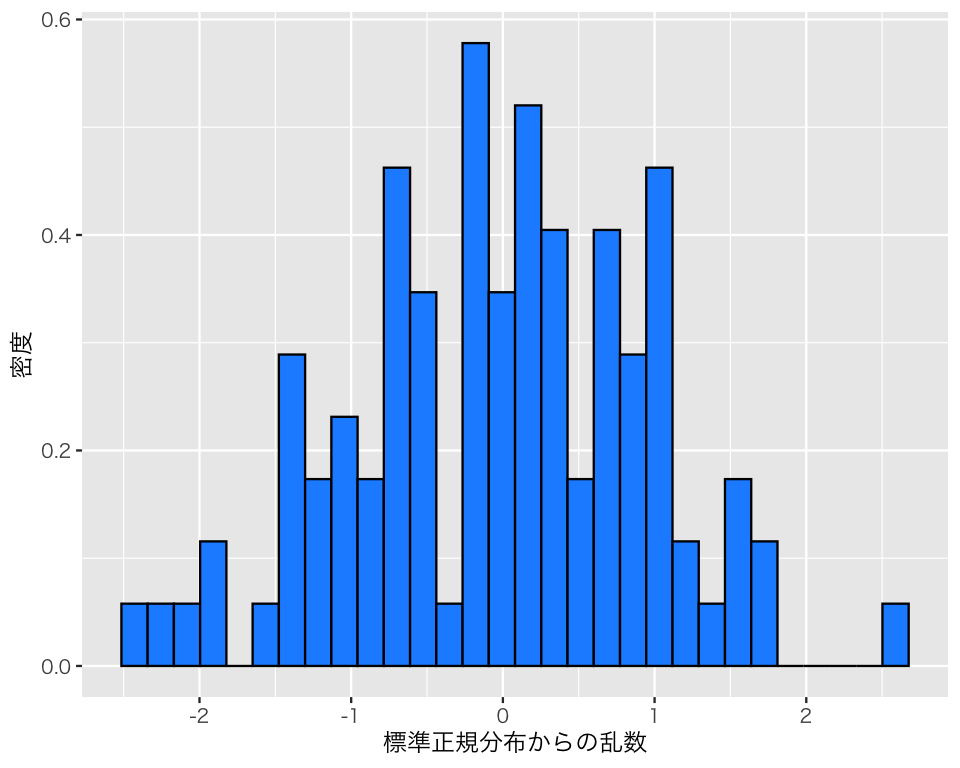
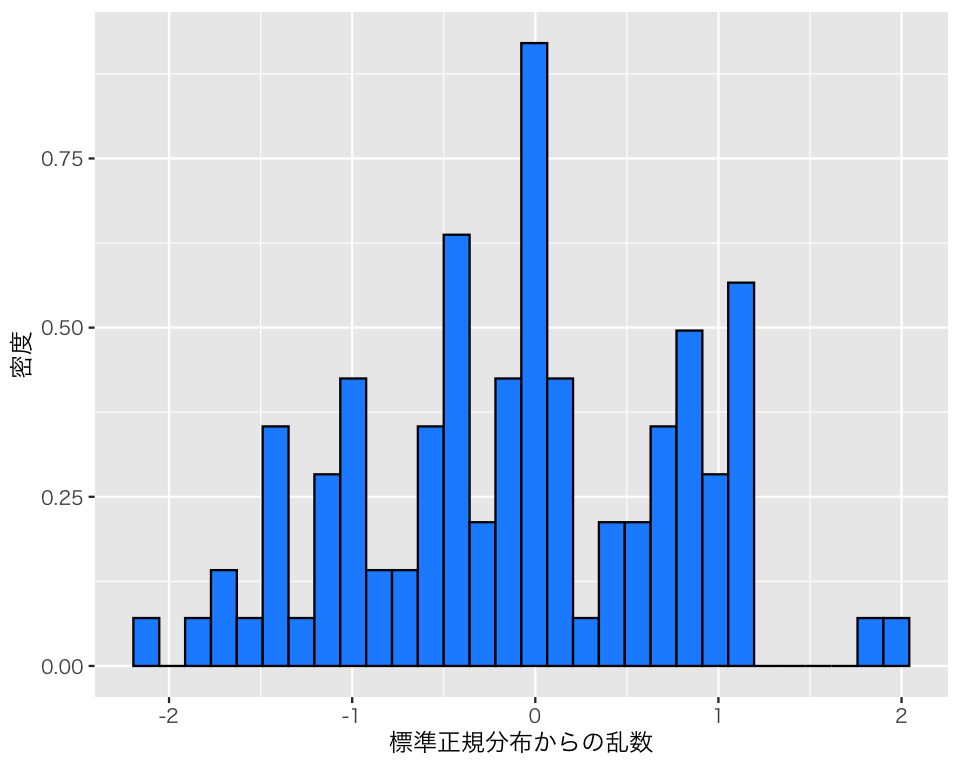
typo

diff --git a/docs/stat-dist.html b/docs/stat-dist.html
@@ -333,7 +333,7 @@ X \sim \mbox{Bernoulli}(\theta)
 <div class="cell">
 <div class="sourceCode" id="cb7"><pre class="downlit sourceCode r code-with-copy"><code class="sourceCode R"><span><span class="fu"><a href="https://rdrr.io/r/base/mean.html">mean</a></span><span class="op">(</span><span class="va">x_1</span><span class="op">)</span></span></code><button title="コピーする" class="code-copy-button"><i class="bi"></i></button></pre></div>
 <div class="cell-output cell-output-stdout">
-<pre><code>[1] 0.689</code></pre>
+<pre><code>[1] 0.713</code></pre>
 </div>
 </div>
 <p>期待値である0.7に一致はしていないものの、ある程度近い値をとっている。</p>
@@ -341,7 +341,7 @@ X \sim \mbox{Bernoulli}(\theta)
 <div class="cell">
 <div class="sourceCode" id="cb9"><pre class="downlit sourceCode r code-with-copy"><code class="sourceCode R"><span><span class="fu"><a href="https://rdrr.io/r/stats/cor.html">var</a></span><span class="op">(</span><span class="va">x_1</span><span class="op">)</span></span></code><button title="コピーする" class="code-copy-button"><i class="bi"></i></button></pre></div>
 <div class="cell-output cell-output-stdout">
-<pre><code>[1] 0.2144935</code></pre>
+<pre><code>[1] 0.2048358</code></pre>
 </div>
 </div>
 <p>それなりに近い値が得られていることがわかる。</p>
@@ -377,7 +377,7 @@ X \sim \mbox{Binomial}(n, \theta)
 <div class="cell">
 <div class="sourceCode" id="cb13"><pre class="downlit sourceCode r code-with-copy"><code class="sourceCode R"><span><span class="fu"><a href="https://rdrr.io/r/base/mean.html">mean</a></span><span class="op">(</span><span class="va">x_2</span><span class="op">)</span></span></code><button title="コピーする" class="code-copy-button"><i class="bi"></i></button></pre></div>
 <div class="cell-output cell-output-stdout">
-<pre><code>[1] 3.438</code></pre>
+<pre><code>[1] 3.463</code></pre>
 </div>
 </div>
 <p>期待値である<span class="math inline">\(n\theta = 5\cdot 0.7=0.35\)</span>に一致はしていないものの、ある程度近い値をとっている。</p>
@@ -385,7 +385,7 @@ X \sim \mbox{Binomial}(n, \theta)
 <div class="cell">
 <div class="sourceCode" id="cb15"><pre class="downlit sourceCode r code-with-copy"><code class="sourceCode R"><span><span class="fu"><a href="https://rdrr.io/r/stats/cor.html">var</a></span><span class="op">(</span><span class="va">x_2</span><span class="op">)</span></span></code><button title="コピーする" class="code-copy-button"><i class="bi"></i></button></pre></div>
 <div class="cell-output cell-output-stdout">
-<pre><code>[1] 1.081237</code></pre>
+<pre><code>[1] 1.117749</code></pre>
 </div>
 </div>
 <p>それなりに近い値が得られているが、ややズレいている。</p>
@@ -442,7 +442,7 @@ X \sim \mbox{Normal}(\mu, \sigma)
 <div class="cell">
 <div class="sourceCode" id="cb22"><pre class="downlit sourceCode r code-with-copy"><code class="sourceCode R"><span><span class="fu"><a href="https://rdrr.io/r/base/mean.html">mean</a></span><span class="op">(</span><span class="va">x_3</span><span class="op">)</span></span></code><button title="コピーする" class="code-copy-button"><i class="bi"></i></button></pre></div>
 <div class="cell-output cell-output-stdout">
-<pre><code>[1] 4.883656</code></pre>
+<pre><code>[1] 4.967769</code></pre>
 </div>
 </div>
 <p>期待値である5に一致はしないが、近い値をとっている。</p>
@@ -450,7 +450,7 @@ X \sim \mbox{Normal}(\mu, \sigma)
 <div class="cell">
 <div class="sourceCode" id="cb24"><pre class="downlit sourceCode r code-with-copy"><code class="sourceCode R"><span><span class="fu"><a href="https://rdrr.io/r/stats/sd.html">sd</a></span><span class="op">(</span><span class="va">x_3</span><span class="op">)</span></span></code><button title="コピーする" class="code-copy-button"><i class="bi"></i></button></pre></div>
 <div class="cell-output cell-output-stdout">
-<pre><code>[1] 2.968933</code></pre>
+<pre><code>[1] 2.97717</code></pre>
 </div>
 </div>
 <p>分布の標準偏差である3にほぼ一致する値が得られた。</p>
@@ -458,10 +458,10 @@ X \sim \mbox{Normal}(\mu, \sigma)
 <div class="cell">
 <div class="sourceCode" id="cb26"><pre class="downlit sourceCode r code-with-copy"><code class="sourceCode R"><span><span class="fu"><a href="https://rdrr.io/r/base/sum.html">sum</a></span><span class="op">(</span><span class="va">x_3</span> <span class="op">&gt;</span> <span class="fl">5</span> <span class="op">-</span> <span class="fl">3</span> <span class="op">&amp;</span> <span class="va">x_3</span> <span class="op">&lt;</span> <span class="fl">5</span> <span class="op">+</span> <span class="fl">3</span><span class="op">)</span></span></code><button title="コピーする" class="code-copy-button"><i class="bi"></i></button></pre></div>
 <div class="cell-output cell-output-stdout">
-<pre><code>[1] 672</code></pre>
+<pre><code>[1] 690</code></pre>
 </div>
 </div>
-<p>である。1000個中672個の値が「平均 ± 1標準偏差」の範囲にある、つまり、データの約67.2 %が「平均 ± 1標準偏差」に収まっている。理論的には、この範囲に収まる確率は</p>
+<p>である。1000個中690個の値が「平均 ± 1標準偏差」の範囲にある、つまり、データの約69 %が「平均 ± 1標準偏差」に収まっている。理論的には、この範囲に収まる確率は</p>
 <div class="cell">
 <div class="sourceCode" id="cb28"><pre class="downlit sourceCode r code-with-copy"><code class="sourceCode R"><span><span class="fu"><a href="https://rdrr.io/r/stats/Normal.html">pnorm</a></span><span class="op">(</span><span class="fl">5</span> <span class="op">+</span> <span class="fl">3</span>, mean <span class="op">=</span> <span class="fl">5</span>, sd <span class="op">=</span> <span class="fl">3</span><span class="op">)</span> <span class="op">-</span> <span class="fu"><a href="https://rdrr.io/r/stats/Normal.html">pnorm</a></span><span class="op">(</span><span class="fl">5</span> <span class="op">-</span> <span class="fl">3</span>, mean <span class="op">=</span> <span class="fl">5</span>, sd <span class="op">=</span> <span class="fl">3</span><span class="op">)</span></span></code><button title="コピーする" class="code-copy-button"><i class="bi"></i></button></pre></div>
 <div class="cell-output cell-output-stdout">
@@ -473,10 +473,10 @@ X \sim \mbox{Normal}(\mu, \sigma)
 <div class="cell">
 <div class="sourceCode" id="cb30"><pre class="downlit sourceCode r code-with-copy"><code class="sourceCode R"><span><span class="fu"><a href="https://rdrr.io/r/base/sum.html">sum</a></span><span class="op">(</span><span class="va">x_3</span> <span class="op">&gt;</span> <span class="fl">5</span> <span class="op">-</span> <span class="fl">2</span> <span class="op">*</span> <span class="fl">3</span> <span class="op">&amp;</span> <span class="va">x_3</span> <span class="op">&lt;</span> <span class="fl">5</span> <span class="op">+</span> <span class="fl">2</span> <span class="op">*</span> <span class="fl">3</span><span class="op">)</span></span></code><button title="コピーする" class="code-copy-button"><i class="bi"></i></button></pre></div>
 <div class="cell-output cell-output-stdout">
-<pre><code>[1] 960</code></pre>
+<pre><code>[1] 957</code></pre>
 </div>
 </div>
-<p>である。1000個中960個の値が「平均 ± 2標準偏差」の範囲にある、つまり、データの約96 %が「平均 ± 2標準偏差」に収まっている。理論的には、この範囲に収まる確率は</p>
+<p>である。1000個中957個の値が「平均 ± 2標準偏差」の範囲にある、つまり、データの約95.7 %が「平均 ± 2標準偏差」に収まっている。理論的には、この範囲に収まる確率は</p>
 <div class="cell">
 <div class="sourceCode" id="cb32"><pre class="downlit sourceCode r code-with-copy"><code class="sourceCode R"><span><span class="fu"><a href="https://rdrr.io/r/stats/Normal.html">pnorm</a></span><span class="op">(</span><span class="fl">5</span> <span class="op">+</span> <span class="fl">2</span> <span class="op">*</span> <span class="fl">3</span>, mean <span class="op">=</span> <span class="fl">5</span>, sd <span class="op">=</span> <span class="fl">3</span><span class="op">)</span> <span class="op">-</span> <span class="fu"><a href="https://rdrr.io/r/stats/Normal.html">pnorm</a></span><span class="op">(</span><span class="fl">5</span> <span class="op">-</span> <span class="fl">2</span> <span class="op">*</span> <span class="fl">3</span>, mean <span class="op">=</span> <span class="fl">5</span>, sd <span class="op">=</span> <span class="fl">3</span><span class="op">)</span></span></code><button title="コピーする" class="code-copy-button"><i class="bi"></i></button></pre></div>
 <div class="cell-output cell-output-stdout">
@@ -534,7 +534,7 @@ X \sim \mbox{Normal}(0, 1)
 <div class="cell">
 <div class="sourceCode" id="cb39"><pre class="downlit sourceCode r code-with-copy"><code class="sourceCode R"><span><span class="fu"><a href="https://rdrr.io/r/base/mean.html">mean</a></span><span class="op">(</span><span class="va">x_4</span><span class="op">)</span></span></code><button title="コピーする" class="code-copy-button"><i class="bi"></i></button></pre></div>
 <div class="cell-output cell-output-stdout">
-<pre><code>[1] -0.05260267</code></pre>
+<pre><code>[1] 0.04080306</code></pre>
 </div>
 </div>
 <p>期待値である0に一致はしないが、近い値をとっている。</p>
@@ -542,7 +542,7 @@ X \sim \mbox{Normal}(0, 1)
 <div class="cell">
 <div class="sourceCode" id="cb41"><pre class="downlit sourceCode r code-with-copy"><code class="sourceCode R"><span><span class="fu"><a href="https://rdrr.io/r/stats/sd.html">sd</a></span><span class="op">(</span><span class="va">x_4</span><span class="op">)</span></span></code><button title="コピーする" class="code-copy-button"><i class="bi"></i></button></pre></div>
 <div class="cell-output cell-output-stdout">
-<pre><code>[1] 1.007018</code></pre>
+<pre><code>[1] 0.9621642</code></pre>
 </div>
 </div>
 <p>分布の標準偏差である1にほぼ一致する値が得られた。</p>
@@ -550,10 +550,10 @@ X \sim \mbox{Normal}(0, 1)
 <div class="cell">
 <div class="sourceCode" id="cb43"><pre class="downlit sourceCode r code-with-copy"><code class="sourceCode R"><span><span class="fu"><a href="https://rdrr.io/r/base/sum.html">sum</a></span><span class="op">(</span><span class="va">x_4</span> <span class="op">&gt;</span> <span class="op">-</span><span class="fl">1</span> <span class="op">&amp;</span> <span class="va">x_4</span> <span class="op">&lt;</span> <span class="fl">1</span><span class="op">)</span></span></code><button title="コピーする" class="code-copy-button"><i class="bi"></i></button></pre></div>
 <div class="cell-output cell-output-stdout">
-<pre><code>[1] 674</code></pre>
+<pre><code>[1] 693</code></pre>
 </div>
 </div>
-<p>である。1000個中674個の値が<span class="math inline">\(-1 &lt; X &lt; 1\)</span>の範囲にある、つまり、データの約67.4 %が<span class="math inline">\(-1 &lt; X &lt; 1\)</span>に収まっている。理論的には、この範囲に収まる確率は</p>
+<p>である。1000個中693個の値が<span class="math inline">\(-1 &lt; X &lt; 1\)</span>の範囲にある、つまり、データの約69.3 %が<span class="math inline">\(-1 &lt; X &lt; 1\)</span>に収まっている。理論的には、この範囲に収まる確率は</p>
 <div class="cell">
 <div class="sourceCode" id="cb45"><pre class="downlit sourceCode r code-with-copy"><code class="sourceCode R"><span><span class="fu"><a href="https://rdrr.io/r/stats/Normal.html">pnorm</a></span><span class="op">(</span><span class="fl">1</span><span class="op">)</span> <span class="op">-</span> <span class="fu"><a href="https://rdrr.io/r/stats/Normal.html">pnorm</a></span><span class="op">(</span><span class="op">-</span><span class="fl">1</span><span class="op">)</span></span></code><button title="コピーする" class="code-copy-button"><i class="bi"></i></button></pre></div>
 <div class="cell-output cell-output-stdout">
@@ -565,10 +565,10 @@ X \sim \mbox{Normal}(0, 1)
 <div class="cell">
 <div class="sourceCode" id="cb47"><pre class="downlit sourceCode r code-with-copy"><code class="sourceCode R"><span><span class="fu"><a href="https://rdrr.io/r/base/sum.html">sum</a></span><span class="op">(</span><span class="va">x_4</span> <span class="op">&gt;</span> <span class="op">-</span><span class="fl">2</span> <span class="op">&amp;</span> <span class="va">x_4</span> <span class="op">&lt;</span> <span class="fl">2</span><span class="op">)</span></span></code><button title="コピーする" class="code-copy-button"><i class="bi"></i></button></pre></div>
 <div class="cell-output cell-output-stdout">
-<pre><code>[1] 957</code></pre>
+<pre><code>[1] 967</code></pre>
 </div>
 </div>
-<p>である。1000個中957個の値が<span class="math inline">\(-2 &lt; X &lt; 2\)</span>の範囲にある、つまり、データの約95.7 %が<span class="math inline">\(-2 &lt; X &lt; 2\)</span>に収まっている。理論的には、この範囲に収まる確率は</p>
+<p>である。1000個中967個の値が<span class="math inline">\(-2 &lt; X &lt; 2\)</span>の範囲にある、つまり、データの約96.7 %が<span class="math inline">\(-2 &lt; X &lt; 2\)</span>に収まっている。理論的には、この範囲に収まる確率は</p>
 <div class="cell">
 <div class="sourceCode" id="cb49"><pre class="downlit sourceCode r code-with-copy"><code class="sourceCode R"><span><span class="fu"><a href="https://rdrr.io/r/stats/Normal.html">pnorm</a></span><span class="op">(</span><span class="fl">2</span><span class="op">)</span> <span class="op">-</span> <span class="fu"><a href="https://rdrr.io/r/stats/Normal.html">pnorm</a></span><span class="op">(</span><span class="op">-</span><span class="fl">2</span><span class="op">)</span></span></code><button title="コピーする" class="code-copy-button"><i class="bi"></i></button></pre></div>
 <div class="cell-output cell-output-stdout">

diff --git a/docs/rv-n-dist.html b/docs/rv-n-dist.html
@@ -500,7 +500,7 @@ X \sim \mbox{Binomial}(N, \theta)
 <div class="cell">
 <div class="sourceCode" id="cb21"><pre class="downlit sourceCode r code-with-copy"><code class="sourceCode R"><span><span class="fu"><a href="https://rdrr.io/r/stats/Binomial.html">rbinom</a></span><span class="op">(</span>n <span class="op">=</span> <span class="fl">8</span>, size <span class="op">=</span> <span class="fl">10</span>, prob <span class="op">=</span> <span class="fl">0.4</span><span class="op">)</span></span></code><button title="コピーする" class="code-copy-button"><i class="bi"></i></button></pre></div>
 <div class="cell-output cell-output-stdout">
-<pre><code>[1] 3 2 4 5 5 3 5 5</code></pre>
+<pre><code>[1] 6 5 4 2 5 4 3 4</code></pre>
 </div>
 </div>
 <p>結果として、8つの数字が表示されるが、それぞれの数字が、1回ごとの実験（コインを10回投げる）で表が何回出たかを表している。</p>
@@ -521,7 +521,7 @@ Warning
 <div class="cell">
 <div class="sourceCode" id="cb23"><pre class="downlit sourceCode r code-with-copy"><code class="sourceCode R"><span><span class="fu"><a href="https://rdrr.io/r/stats/Binomial.html">rbinom</a></span><span class="op">(</span>n <span class="op">=</span> <span class="fl">8</span>, size <span class="op">=</span> <span class="fl">10</span>, prob <span class="op">=</span> <span class="fl">0.4</span><span class="op">)</span></span></code><button title="コピーする" class="code-copy-button"><i class="bi"></i></button></pre></div>
 <div class="cell-output cell-output-stdout">
-<pre><code>[1] 4 3 4 3 3 2 2 5</code></pre>
+<pre><code>[1] 5 2 4 1 0 2 4 4</code></pre>
 </div>
 </div>
 <p>表が出る確率が0.5のコインを使って、1回のコイン投げ実験を1回だけ実行するには、</p>
@@ -541,19 +541,19 @@ Warning
 <div class="cell">
 <div class="sourceCode" id="cb29"><pre class="downlit sourceCode r code-with-copy"><code class="sourceCode R"><span><span class="fu"><a href="https://rdrr.io/r/stats/Binomial.html">rbinom</a></span><span class="op">(</span>n <span class="op">=</span> <span class="fl">1</span>, size <span class="op">=</span> <span class="fl">1</span>, prob <span class="op">=</span> <span class="fl">0.5</span><span class="op">)</span></span></code><button title="コピーする" class="code-copy-button"><i class="bi"></i></button></pre></div>
 <div class="cell-output cell-output-stdout">
-<pre><code>[1] 0</code></pre>
+<pre><code>[1] 1</code></pre>
 </div>
 </div>
 <div class="cell">
 <div class="sourceCode" id="cb31"><pre class="downlit sourceCode r code-with-copy"><code class="sourceCode R"><span><span class="fu"><a href="https://rdrr.io/r/stats/Binomial.html">rbinom</a></span><span class="op">(</span>n <span class="op">=</span> <span class="fl">1</span>, size <span class="op">=</span> <span class="fl">1</span>, prob <span class="op">=</span> <span class="fl">0.5</span><span class="op">)</span></span></code><button title="コピーする" class="code-copy-button"><i class="bi"></i></button></pre></div>
 <div class="cell-output cell-output-stdout">
-<pre><code>[1] 1</code></pre>
+<pre><code>[1] 0</code></pre>
 </div>
 </div>
 <div class="cell">
 <div class="sourceCode" id="cb33"><pre class="downlit sourceCode r code-with-copy"><code class="sourceCode R"><span><span class="fu"><a href="https://rdrr.io/r/stats/Binomial.html">rbinom</a></span><span class="op">(</span>n <span class="op">=</span> <span class="fl">1</span>, size <span class="op">=</span> <span class="fl">1</span>, prob <span class="op">=</span> <span class="fl">0.5</span><span class="op">)</span></span></code><button title="コピーする" class="code-copy-button"><i class="bi"></i></button></pre></div>
 <div class="cell-output cell-output-stdout">
-<pre><code>[1] 1</code></pre>
+<pre><code>[1] 0</code></pre>
 </div>
 </div>
 <div class="cell">
@@ -566,7 +566,7 @@ Warning
 <div class="cell">
 <div class="sourceCode" id="cb37"><pre class="downlit sourceCode r code-with-copy"><code class="sourceCode R"><span><span class="fu"><a href="https://rdrr.io/r/stats/Binomial.html">rbinom</a></span><span class="op">(</span>n <span class="op">=</span> <span class="fl">10</span>, size <span class="op">=</span> <span class="fl">1</span>, prob <span class="op">=</span> <span class="fl">0.5</span><span class="op">)</span></span></code><button title="コピーする" class="code-copy-button"><i class="bi"></i></button></pre></div>
 <div class="cell-output cell-output-stdout">
-<pre><code> [1] 0 1 0 0 1 0 0 1 1 1</code></pre>
+<pre><code> [1] 0 1 1 1 1 0 0 0 1 1</code></pre>
 </div>
 </div>
 <p>確率変数 <span class="math inline">\(X\)</span> が、<span class="math inline">\(X \sim \mbox{Binomial}(10, 0.3)\)</span> のとき、確率変数<span class="math inline">\(X\)</span>をランダムに1,000個生成してみよう。</p>
@@ -629,21 +629,21 @@ Note
 </div>
 </div>
 </div>
-<p><span class="math inline">\(X\)</span>がある実数<span class="math inline">\(x\)</span>以下の値をとる確率は、分布関数<span class="math inline">\(F_X(x)\)</span>で求めることができるが、Rでは次のようにする。 <span class="math inline">\(Pr(X \leq 3)\)</span>（3以下の確率）：</p>
+<p><span class="math inline">\(X\)</span>がある実数<span class="math inline">\(x\)</span>以下の値をとる確率は、分布関数<span class="math inline">\(F_X(x)\)</span>で求めることができるが、Rでは次のようにする。 <span class="math inline">\(\Pr(X \leq 3)\)</span>（3以下の確率）：</p>
 <div class="cell">
 <div class="sourceCode" id="cb45"><pre class="downlit sourceCode r code-with-copy"><code class="sourceCode R"><span><span class="fu"><a href="https://rdrr.io/r/stats/Binomial.html">pbinom</a></span><span class="op">(</span><span class="fl">3</span>, size <span class="op">=</span> <span class="fl">10</span>, prob <span class="op">=</span> <span class="fl">0.3</span><span class="op">)</span></span></code><button title="コピーする" class="code-copy-button"><i class="bi"></i></button></pre></div>
 <div class="cell-output cell-output-stdout">
 <pre><code>[1] 0.6496107</code></pre>
 </div>
 </div>
-<p><span class="math inline">\(Pr(4 \leq X \leq 6)\)</span>（4以上、6以下の確率）</p>
+<p><span class="math inline">\(\Pr(4 \leq X \leq 6)\)</span>（4以上、6以下の確率）</p>
 <div class="cell">
 <div class="sourceCode" id="cb47"><pre class="downlit sourceCode r code-with-copy"><code class="sourceCode R"><span><span class="fu"><a href="https://rdrr.io/r/stats/Binomial.html">pbinom</a></span><span class="op">(</span><span class="fl">6</span>, size <span class="op">=</span> <span class="fl">10</span>, prob <span class="op">=</span> <span class="fl">0.3</span><span class="op">)</span> <span class="op">-</span> <span class="fu"><a href="https://rdrr.io/r/stats/Binomial.html">pbinom</a></span><span class="op">(</span><span class="fl">3</span>, size <span class="op">=</span> <span class="fl">10</span>, prob <span class="op">=</span> <span class="fl">0.3</span><span class="op">)</span> </span></code><button title="コピーする" class="code-copy-button"><i class="bi"></i></button></pre></div>
 <div class="cell-output cell-output-stdout">
 <pre><code>[1] 0.3397972</code></pre>
 </div>
 </div>
-<p><span class="math inline">\(Pr(4 &lt; X \leq 6)\)</span>（4より大きく、6以下の確率）</p>
+<p><span class="math inline">\(\Pr(4 &lt; X \leq 6)\)</span>（4より大きく、6以下の確率）</p>
 <div class="cell">
 <div class="sourceCode" id="cb49"><pre class="downlit sourceCode r code-with-copy"><code class="sourceCode R"><span><span class="fu"><a href="https://rdrr.io/r/stats/Binomial.html">pbinom</a></span><span class="op">(</span><span class="fl">6</span>, size <span class="op">=</span> <span class="fl">10</span>, prob <span class="op">=</span> <span class="fl">0.3</span><span class="op">)</span> <span class="op">-</span> <span class="fu"><a href="https://rdrr.io/r/stats/Binomial.html">pbinom</a></span><span class="op">(</span><span class="fl">4</span>, size <span class="op">=</span> <span class="fl">10</span>, prob <span class="op">=</span> <span class="fl">0.3</span><span class="op">)</span> </span></code><button title="コピーする" class="code-copy-button"><i class="bi"></i></button></pre></div>
 <div class="cell-output cell-output-stdout">
@@ -702,11 +702,11 @@ X \sim \mbox{Normal}(\mu, \sigma)
 <div class="cell">
 <div class="sourceCode" id="cb57"><pre class="downlit sourceCode r code-with-copy"><code class="sourceCode R"><span><span class="fu"><a href="https://rdrr.io/r/base/mean.html">mean</a></span><span class="op">(</span><span class="va">b1</span><span class="op">)</span></span></code><button title="コピーする" class="code-copy-button"><i class="bi"></i></button></pre></div>
 <div class="cell-output cell-output-stdout">
-<pre><code>[1] -0.02897176</code></pre>
+<pre><code>[1] -0.09187024</code></pre>
 </div>
 <div class="sourceCode" id="cb59"><pre class="downlit sourceCode r code-with-copy"><code class="sourceCode R"><span><span class="fu"><a href="https://rdrr.io/r/stats/sd.html">sd</a></span><span class="op">(</span><span class="va">b1</span><span class="op">)</span></span></code><button title="コピーする" class="code-copy-button"><i class="bi"></i></button></pre></div>
 <div class="cell-output cell-output-stdout">
-<pre><code>[1] 0.9705065</code></pre>
+<pre><code>[1] 0.8674168</code></pre>
 </div>
 </div>
 <p>乱数の元となった確率分布の平均値、標準偏差と比べると、どんなことが言えるだろうか？</p>
@@ -730,11 +730,11 @@ X \sim \mbox{Normal}(\mu, \sigma)
 <div class="cell">
 <div class="sourceCode" id="cb62"><pre class="downlit sourceCode r code-with-copy"><code class="sourceCode R"><span><span class="fu"><a href="https://rdrr.io/r/base/mean.html">mean</a></span><span class="op">(</span><span class="va">b2</span><span class="op">)</span></span></code><button title="コピーする" class="code-copy-button"><i class="bi"></i></button></pre></div>
 <div class="cell-output cell-output-stdout">
-<pre><code>[1] 0.01434414</code></pre>
+<pre><code>[1] 0.006740501</code></pre>
 </div>
 <div class="sourceCode" id="cb64"><pre class="downlit sourceCode r code-with-copy"><code class="sourceCode R"><span><span class="fu"><a href="https://rdrr.io/r/stats/sd.html">sd</a></span><span class="op">(</span><span class="va">b2</span><span class="op">)</span></span></code><button title="コピーする" class="code-copy-button"><i class="bi"></i></button></pre></div>
 <div class="cell-output cell-output-stdout">
-<pre><code>[1] 1.009669</code></pre>
+<pre><code>[1] 1.013106</code></pre>
 </div>
 </div>
 <p>乱数の元となった確率分布の平均値、標準偏差と比べると、どんなことが言えるだろうか？</p>
@@ -774,11 +774,11 @@ X \sim \mbox{Normal}(\mu, \sigma)
 <div class="cell">
 <div class="sourceCode" id="cb69"><pre class="downlit sourceCode r code-with-copy"><code class="sourceCode R"><span><span class="fu"><a href="https://rdrr.io/r/base/mean.html">mean</a></span><span class="op">(</span><span class="va">b3</span><span class="op">)</span></span></code><button title="コピーする" class="code-copy-button"><i class="bi"></i></button></pre></div>
 <div class="cell-output cell-output-stdout">
-<pre><code>[1] 10.01234</code></pre>
+<pre><code>[1] 9.980957</code></pre>
 </div>
 <div class="sourceCode" id="cb71"><pre class="downlit sourceCode r code-with-copy"><code class="sourceCode R"><span><span class="fu"><a href="https://rdrr.io/r/stats/sd.html">sd</a></span><span class="op">(</span><span class="va">b3</span><span class="op">)</span></span></code><button title="コピーする" class="code-copy-button"><i class="bi"></i></button></pre></div>
 <div class="cell-output cell-output-stdout">
-<pre><code>[1] 2.008872</code></pre>
+<pre><code>[1] 2.022098</code></pre>
 </div>
 </div>
 <p>乱数の元となった確率分布の平均値、標準偏差と比べると、どんなことが言えるだろうか？</p>

diff --git a/docs/discrete-distributions.html b/docs/discrete-distributions.html
@@ -317,7 +317,7 @@ window.Quarto = {
 <div class="cell">
 <div class="sourceCode" id="cb9"><pre class="downlit sourceCode r code-with-copy"><code class="sourceCode R"><span><span class="fu"><a href="https://rdrr.io/r/base/sample.html">sample</a></span><span class="op">(</span><span class="va">coin</span>, size <span class="op">=</span> <span class="fl">1</span><span class="op">)</span></span></code><button title="コピーする" class="code-copy-button"><i class="bi"></i></button></pre></div>
 <div class="cell-output cell-output-stdout">
-<pre><code>[1] "裏"</code></pre>
+<pre><code>[1] "表"</code></pre>
 </div>
 </div>
 <p>とする。<code>size</code> で何回選ぶか（何回コインを投げるか）を指定している。</p>
@@ -333,7 +333,7 @@ window.Quarto = {
 </div>
 <div class="sourceCode" id="cb15"><pre class="downlit sourceCode r code-with-copy"><code class="sourceCode R"><span><span class="fu"><a href="https://rdrr.io/r/base/sample.html">sample</a></span><span class="op">(</span><span class="va">coin</span>, size <span class="op">=</span> <span class="fl">1</span><span class="op">)</span></span></code><button title="コピーする" class="code-copy-button"><i class="bi"></i></button></pre></div>
 <div class="cell-output cell-output-stdout">
-<pre><code>[1] "表"</code></pre>
+<pre><code>[1] "裏"</code></pre>
 </div>
 <div class="sourceCode" id="cb17"><pre class="downlit sourceCode r code-with-copy"><code class="sourceCode R"><span><span class="fu"><a href="https://rdrr.io/r/base/sample.html">sample</a></span><span class="op">(</span><span class="va">coin</span>, size <span class="op">=</span> <span class="fl">1</span><span class="op">)</span></span></code><button title="コピーする" class="code-copy-button"><i class="bi"></i></button></pre></div>
 <div class="cell-output cell-output-stdout">
@@ -341,7 +341,7 @@ window.Quarto = {
 </div>
 <div class="sourceCode" id="cb19"><pre class="downlit sourceCode r code-with-copy"><code class="sourceCode R"><span><span class="fu"><a href="https://rdrr.io/r/base/sample.html">sample</a></span><span class="op">(</span><span class="va">coin</span>, size <span class="op">=</span> <span class="fl">1</span><span class="op">)</span></span></code><button title="コピーする" class="code-copy-button"><i class="bi"></i></button></pre></div>
 <div class="cell-output cell-output-stdout">
-<pre><code>[1] "表"</code></pre>
+<pre><code>[1] "裏"</code></pre>
 </div>
 </div>
 <p>（実際にコインを投げているのと同じように）結果は<strong>ランダムに</strong>決まるので、上で得られる結果は人によって異なる。あなたの実行結果は、この資料やあなたの隣の席の人の結果とは異なるはずだ。</p>
@@ -349,21 +349,21 @@ window.Quarto = {
 <div class="cell">
 <div class="sourceCode" id="cb21"><pre class="downlit sourceCode r code-with-copy"><code class="sourceCode R"><span><span class="fu"><a href="https://rdrr.io/r/base/sample.html">sample</a></span><span class="op">(</span><span class="va">coin</span>, size <span class="op">=</span> <span class="fl">2</span><span class="op">)</span></span></code><button title="コピーする" class="code-copy-button"><i class="bi"></i></button></pre></div>
 <div class="cell-output cell-output-stdout">
-<pre><code>[1] "裏" "表"</code></pre>
+<pre><code>[1] "表" "裏"</code></pre>
 </div>
 </div>
 <p>もう一度やってみよう。</p>
 <div class="cell">
 <div class="sourceCode" id="cb23"><pre class="downlit sourceCode r code-with-copy"><code class="sourceCode R"><span><span class="fu"><a href="https://rdrr.io/r/base/sample.html">sample</a></span><span class="op">(</span><span class="va">coin</span><span class="op">)</span></span></code><button title="コピーする" class="code-copy-button"><i class="bi"></i></button></pre></div>
 <div class="cell-output cell-output-stdout">
-<pre><code>[1] "表" "裏"</code></pre>
+<pre><code>[1] "裏" "表"</code></pre>
 </div>
 </div>
 <p>さらに、もう一度やってみよう。</p>
 <div class="cell">
 <div class="sourceCode" id="cb25"><pre class="downlit sourceCode r code-with-copy"><code class="sourceCode R"><span><span class="fu"><a href="https://rdrr.io/r/base/sample.html">sample</a></span><span class="op">(</span><span class="va">coin</span>, size <span class="op">=</span> <span class="fl">2</span><span class="op">)</span></span></code><button title="コピーする" class="code-copy-button"><i class="bi"></i></button></pre></div>
 <div class="cell-output cell-output-stdout">
-<pre><code>[1] "表" "裏"</code></pre>
+<pre><code>[1] "裏" "表"</code></pre>
 </div>
 </div>
 <p>これを何度やっても、1回目が表なら2回目は裏、1回目が裏なら2回目が表になる。つまり、2回目のコイン投げはランダムではない。これは、<code><a href="https://rdrr.io/r/base/sample.html">sample()</a></code> が決められた対象から1つずつ順番に選ぶという作業をしているためである。私たちが定義した <code>coin</code> の中身は「表」と「裏」の2つしかない。この2つから順番に選ぶ作業をすると、1つ目に表（裏）が出れば、2回目に残されているのは裏（表）だけなので、2回目がランダムではなくなってしまう。</p>
@@ -380,7 +380,7 @@ window.Quarto = {
 <div class="cell">
 <div class="sourceCode" id="cb29"><pre class="downlit sourceCode r code-with-copy"><code class="sourceCode R"><span><span class="fu"><a href="https://rdrr.io/r/base/sample.html">sample</a></span><span class="op">(</span><span class="va">coin</span>, size <span class="op">=</span> <span class="fl">5</span>, replace <span class="op">=</span> <span class="cn">TRUE</span><span class="op">)</span></span></code><button title="コピーする" class="code-copy-button"><i class="bi"></i></button></pre></div>
 <div class="cell-output cell-output-stdout">
-<pre><code>[1] "裏" "裏" "表" "裏" "裏"</code></pre>
+<pre><code>[1] "表" "表" "裏" "裏" "表"</code></pre>
 </div>
 </div>
 <p>これでコイン投げを複数回実行できる。</p>
@@ -389,7 +389,7 @@ window.Quarto = {
 <div class="sourceCode" id="cb31"><pre class="downlit sourceCode r code-with-copy"><code class="sourceCode R"><span><span class="va">coin10</span> <span class="op">&lt;-</span> <span class="fu"><a href="https://rdrr.io/r/base/sample.html">sample</a></span><span class="op">(</span><span class="va">coin</span>, size <span class="op">=</span> <span class="fl">10</span>, replace <span class="op">=</span> <span class="cn">TRUE</span><span class="op">)</span> <span class="op">|&gt;</span> </span>
 <span>  <span class="fu"><a href="https://rdrr.io/r/base/print.html">print</a></span><span class="op">(</span><span class="op">)</span></span></code><button title="コピーする" class="code-copy-button"><i class="bi"></i></button></pre></div>
 <div class="cell-output cell-output-stdout">
-<pre><code> [1] "裏" "裏" "裏" "表" "表" "裏" "裏" "裏" "裏" "表"</code></pre>
+<pre><code> [1] "表" "裏" "裏" "表" "裏" "表" "表" "裏" "表" "表"</code></pre>
 </div>
 </div>
 <div class="callout callout-style-default callout-tip callout-titled">
@@ -444,7 +444,7 @@ Warning
 <div class="cell">
 <div class="sourceCode" id="cb39"><pre class="downlit sourceCode r code-with-copy"><code class="sourceCode R"><span><span class="va">coin10</span> <span class="op">==</span> <span class="st">"表"</span></span></code><button title="コピーする" class="code-copy-button"><i class="bi"></i></button></pre></div>
 <div class="cell-output cell-output-stdout">
-<pre><code> [1] FALSE FALSE FALSE  TRUE  TRUE FALSE FALSE FALSE FALSE  TRUE</code></pre>
+<pre><code> [1]  TRUE FALSE FALSE  TRUE FALSE  TRUE  TRUE FALSE  TRUE  TRUE</code></pre>
 </div>
 </div>
 <p>このように、各回について、表 (<code>TRUE</code>) か裏 (<code>FALSE</code>) かを教えてくれる。</p>
@@ -452,10 +452,10 @@ Warning
 <div class="cell">
 <div class="sourceCode" id="cb41"><pre class="downlit sourceCode r code-with-copy"><code class="sourceCode R"><span><span class="fu"><a href="https://rdrr.io/r/base/sum.html">sum</a></span><span class="op">(</span><span class="va">coin10</span> <span class="op">==</span> <span class="st">"表"</span><span class="op">)</span></span></code><button title="コピーする" class="code-copy-button"><i class="bi"></i></button></pre></div>
 <div class="cell-output cell-output-stdout">
-<pre><code>[1] 3</code></pre>
+<pre><code>[1] 6</code></pre>
 </div>
 </div>
-<p>表は10回中3回だったことがわかる。</p>
+<p>表は10回中6回だったことがわかる。</p>
 <p>分布について考えるために、コイン投げを100回行ってみよう。</p>
 <div class="cell">
 <div class="sourceCode" id="cb43"><pre class="downlit sourceCode r code-with-copy"><code class="sourceCode R"><span><span class="va">coin100</span> <span class="op">&lt;-</span> <span class="fu"><a href="https://rdrr.io/r/base/sample.html">sample</a></span><span class="op">(</span><span class="va">coin</span>, size <span class="op">=</span> <span class="fl">100</span>, replace <span class="op">=</span> <span class="cn">TRUE</span><span class="op">)</span></span></code><button title="コピーする" class="code-copy-button"><i class="bi"></i></button></pre></div>

diff --git a/docs/intro-to-ggplot2.html b/docs/intro-to-ggplot2.html
@@ -500,9 +500,9 @@ $ y &lt;int&gt; 100, 99, 98, 97, 96, 95, 94, 93, 92, 91, 90, 89, 88, 87, 86, 85,
 <div class="cell-output cell-output-stdout">
 <pre><code>Rows: 100
 Columns: 3
-$ v1 &lt;dbl&gt; 4.7979516, -12.9425056, -4.6683040, 8.8815213, 0.2874052, -2.643068…
-$ v2 &lt;dbl&gt; 0.55788045, -3.49346363, -0.20454990, -1.01795610, -0.25462019, -6.…
-$ v3 &lt;dbl&gt; -0.47326865, -0.93983040, -1.54099115, 2.02018063, 1.78463539, -0.7…</code></pre>
+$ v1 &lt;dbl&gt; -7.5237119, -10.7241493, 5.0726321, 6.2341520, -2.7369927, 10.27629…
+$ v2 &lt;dbl&gt; -8.8556882, -10.9534812, -3.7739955, 2.7006271, -2.8729459, -2.1490…
+$ v3 &lt;dbl&gt; 0.08974279, -0.62669118, 1.36821141, 0.54600199, -1.03778223, 0.998…</code></pre>
 </div>
 </div>
 <p><code>v1</code>, <code>v2</code>, <code>v3</code> という3つの変数があり、それぞれが <code>&lt;dbl&gt;</code> すなわち実数型であることがわかる。このデータフレームは100行3列である。</p>
